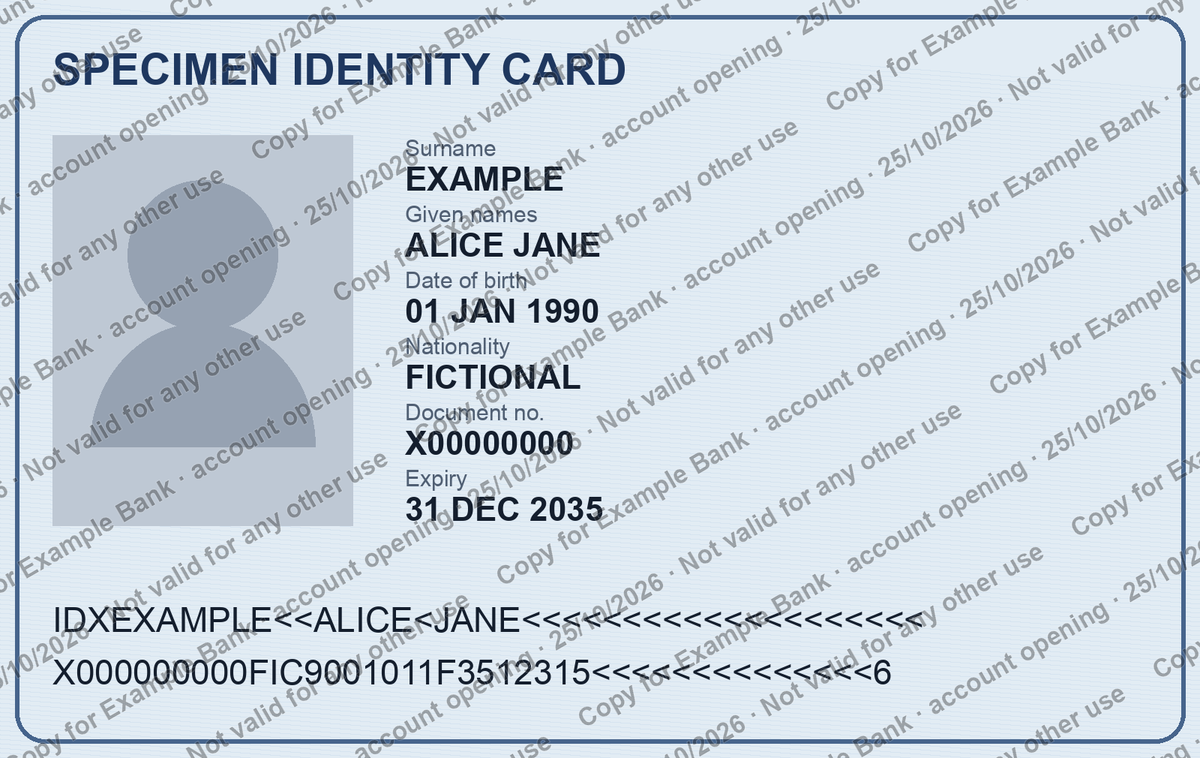
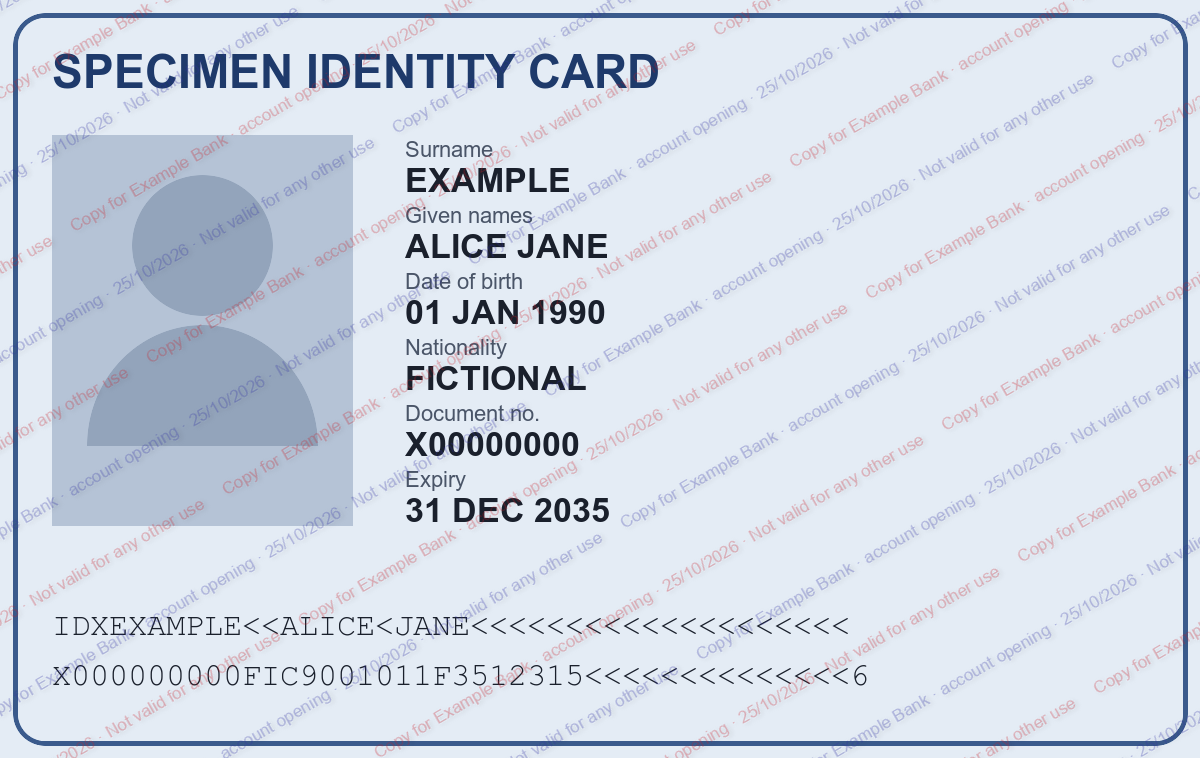
Lighter two-colour watermark with soft shadow, smaller text

diff --git a/scripts/watermark.py b/scripts/watermark.py
@@ -20,17 +20,18 @@ import tempfile
 import unicodedata
 from pathlib import Path
 
-from PIL import Image, ImageDraw, ImageFont, ImageOps
+from PIL import Image, ImageDraw, ImageFilter, ImageFont, ImageOps
 from pillow_heif import register_heif_opener
 
 register_heif_opener()
 
 FONTS = [
-    "/System/Library/Fonts/Supplemental/Arial Bold.ttf",
-    "/usr/share/fonts/truetype/dejavu/DejaVuSans-Bold.ttf",
-    "C:/Windows/Fonts/arialbd.ttf",
+    "/System/Library/Fonts/Supplemental/Arial.ttf",
+    "/usr/share/fonts/truetype/dejavu/DejaVuSans.ttf",
+    "C:/Windows/Fonts/arial.ttf",
 ]
 PDF_DPI = 200
+COLOURS = [(50, 50, 170), (210, 30, 40)]  # blue-violet, red
 
 TEMPLATES = {
     "fr": "Copie pour {recipient} · {purpose} · {date} · Toute autre utilisation interdite",
@@ -46,24 +47,29 @@ def slug(text: str) -> str:
 def stamp(page: Image.Image, text: str, opacity: int) -> Image.Image:
     page = ImageOps.exif_transpose(page).convert("RGB")
     w, h = page.size
-    size = max(14, round(min(w, h) / 30))
+    size = max(14, round(min(w, h) / 45))
     font = next((ImageFont.truetype(f, size) for f in FONTS if Path(f).exists()),
                 None) or ImageFont.load_default(size)
 
     # Draw rows on a square canvas big enough to cover the page at any angle,
     # rotate it, then crop the centre back to the page size.
     side = math.ceil(math.hypot(w, h))
+    # Rows alternate between two colours and sit on a soft grey shadow, as on
+    # filigrane.beta.gouv.fr; the shadow makes the text harder to clean off.
     layer = Image.new("RGBA", (side, side), (0, 0, 0, 0))
-    draw = ImageDraw.Draw(layer)
+    shadow = Image.new("RGBA", (side, side), (0, 0, 0, 0))
+    draw, shadow_draw = ImageDraw.Draw(layer), ImageDraw.Draw(shadow)
     line = f"{text}     "
     line_w = draw.textlength(line, font=font)
     row = (line * (math.ceil(side / line_w) + 2))
-    step = round(size * 3.2)
+    step = round(size * 4.5)
+    drop = max(1, round(size * 0.12))
     for i, y in enumerate(range(-step, side + step, step)):
         offset = -(i % 2) * line_w / 2
-        draw.text((offset, y), row, font=font, fill=(40, 40, 40, opacity),
-                  stroke_width=max(1, size // 18), stroke_fill=(255, 255, 255, opacity // 2))
-    layer = layer.rotate(30, resample=Image.Resampling.BICUBIC)
+        shadow_draw.text((offset + drop, y + drop), row, font=font, fill=(60, 60, 60, opacity // 2))
+        draw.text((offset, y), row, font=font, fill=(*COLOURS[i % 2], opacity))
+    shadow = shadow.filter(ImageFilter.GaussianBlur(max(1, size * 0.15)))
+    layer = Image.alpha_composite(shadow, layer).rotate(30, resample=Image.Resampling.BICUBIC)
     left, top = (side - w) // 2, (side - h) // 2
     layer = layer.crop((left, top, left + w, top + h))
 
@@ -83,7 +89,7 @@ def main() -> int:
     ap.add_argument("--lang", choices=TEMPLATES, default="fr")
     ap.add_argument("--date", default=dt.date.today().strftime("%d/%m/%Y"))
     ap.add_argument("--text", help="full watermark text, replacing the template")
-    ap.add_argument("--opacity", type=int, default=95, help="0-255 (default 95)")
+    ap.add_argument("--opacity", type=int, default=70, help="0-255 (default 70)")
     ap.add_argument("--output", type=Path, help="default: <input>-watermarked-<recipient>.<ext>")
     args = ap.parse_args()
 

diff --git a/SKILL.md b/SKILL.md
@@ -17,6 +17,6 @@ A watermarked copy names who it was for and why, so a leaked or resold copy is u
    <skill-dir>/scripts/watermark.py <file> --recipient "<org>" --purpose "<procedure>" [--lang en]
    ```
 
-   It accepts JPEG, PNG, HEIC, WebP and PDF; writes `<name>-watermarked-<recipient>.<ext>` beside the original and prints the path. PDFs come out flattened (rasterised), and all outputs drop EXIF/GPS metadata. `--text` replaces the template; `--opacity` (0–255, default 95) adjusts strength.
+   It accepts JPEG, PNG, HEIC, WebP and PDF; writes `<name>-watermarked-<recipient>.<ext>` beside the original and prints the path. PDFs come out flattened (rasterised), and all outputs drop EXIF/GPS metadata. `--text` replaces the template; `--opacity` (0–255, default 70) adjusts strength.
 4. **Look at the result**: render a downscaled preview (`magick <out> -resize 1200x1200 <scratch>/preview.jpg`, or `magick -density 60 "<out.pdf>[0]" …` for a PDF) and read it. Done when the watermark covers the whole document and every field, the photo and the MRZ remain legible.
 5. **Send the watermarked file** in place of the original wherever it was going, and mention to the user that it is watermarked and for whom.
